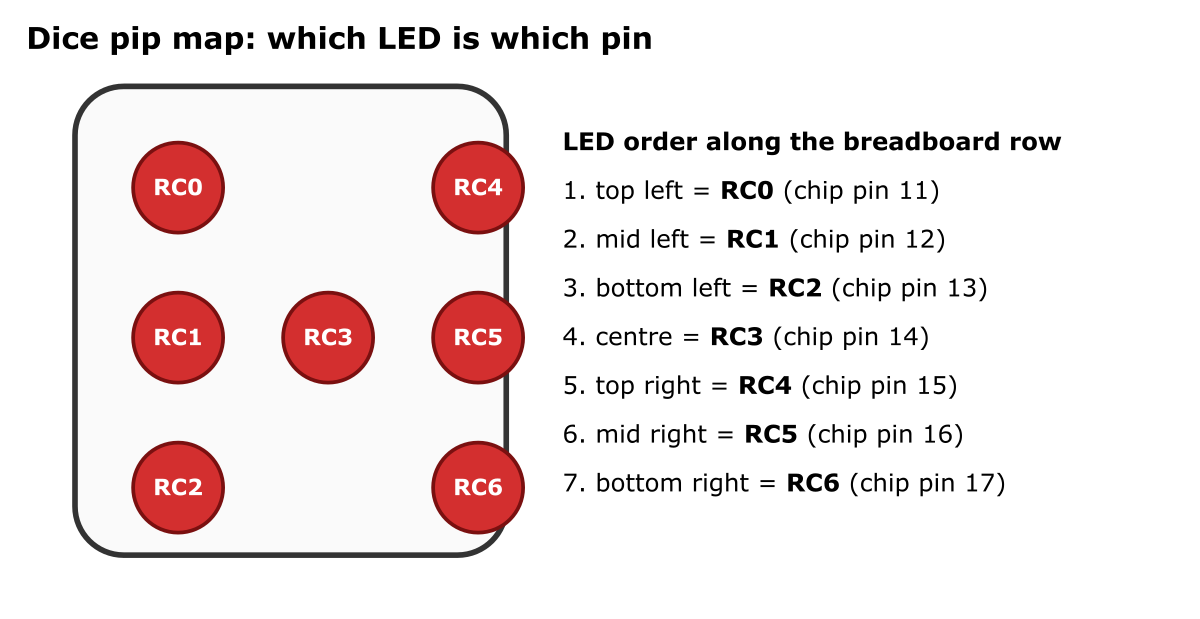
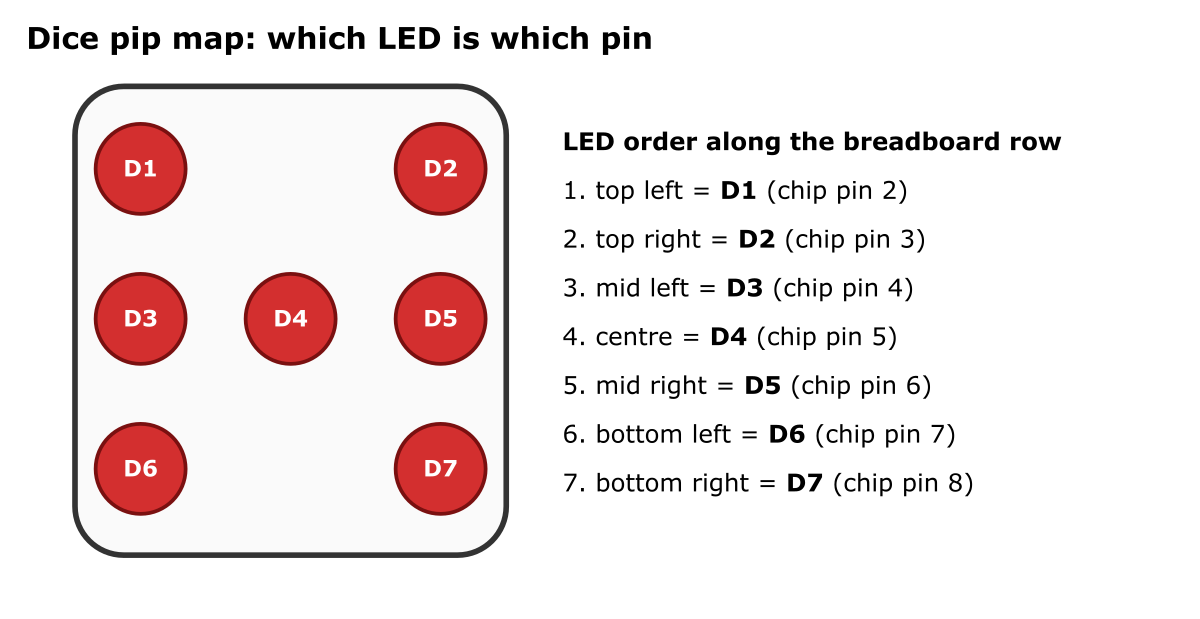
Update Dice Map

diff --git a/maintainer/tools/make_extra.py b/maintainer/tools/make_extra.py
@@ -23,13 +23,12 @@ def save(path, svg):
 
 
 def dice():
-    pips = {"TOP_LEFT": (0, 0, "RC0", 11), "MID_LEFT": (0, 1, "RC1", 12), "BOTTOM_LEFT": (0, 2, "RC2", 13),
-            "CENTRE": (1, 1, "RC3", 14), "TOP_RIGHT": (2, 0, "RC4", 15), "MID_RIGHT": (2, 1, "RC5", 16), "BOTTOM_RIGHT": (2, 2, "RC6", 17)}
+    pips = {"TOP_LEFT": (0, 0, "D1", 2),"TOP_RIGHT": (2, 0, "D2", 3),"MID_LEFT": (0, 1, "D3", 4),"CENTRE": (1, 1, "D4", 5),"MID_RIGHT": (2, 1, "D5", 6),"BOTTOM_LEFT": (0, 2, "D6", 7),"BOTTOM_RIGHT": (2, 2, "D7", 8)}
     o = [f'<svg xmlns="http://www.w3.org/2000/svg" viewBox="0 0 640 330" width="640" height="330" font-family="{F}"><rect width="100%" height="100%" fill="#fff"/>',
          '<text x="14" y="26" font-size="16" font-weight="bold">Dice pip map: which LED is which pin</text>',
          '<rect x="40" y="46" width="230" height="250" rx="26" fill="#fafafa" stroke="#333" stroke-width="3"/>']
     for nm, (cx, cy, rc, pin) in pips.items():
-        x = 95 + cx * 80; y = 100 + cy * 80
+        x = 75 + cx * 80; y = 90 + cy * 80
         o.append(f'<circle cx="{x}" cy="{y}" r="24" fill="#d32f2f" stroke="#7a1010" stroke-width="2"/>')
         o.append(f'<text x="{x}" y="{y+4}" font-size="12" font-weight="bold" fill="#fff" text-anchor="middle">{rc}</text>')
     o.append('<text x="300" y="80" font-size="13" font-weight="bold">LED order along the breadboard row</text>')
